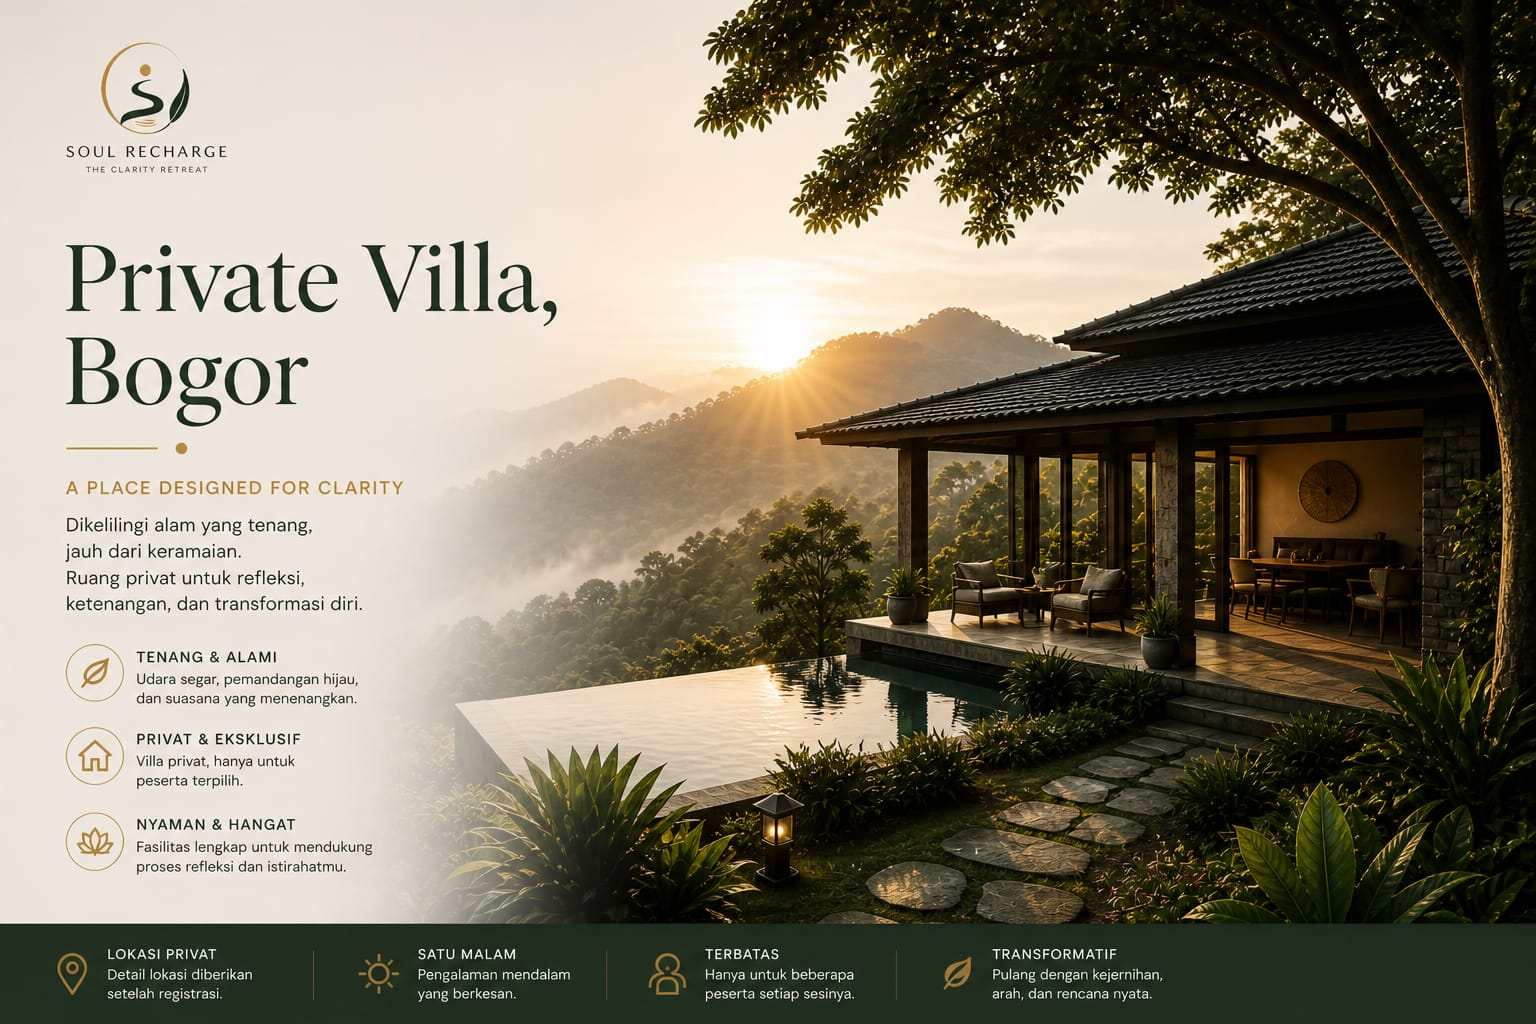
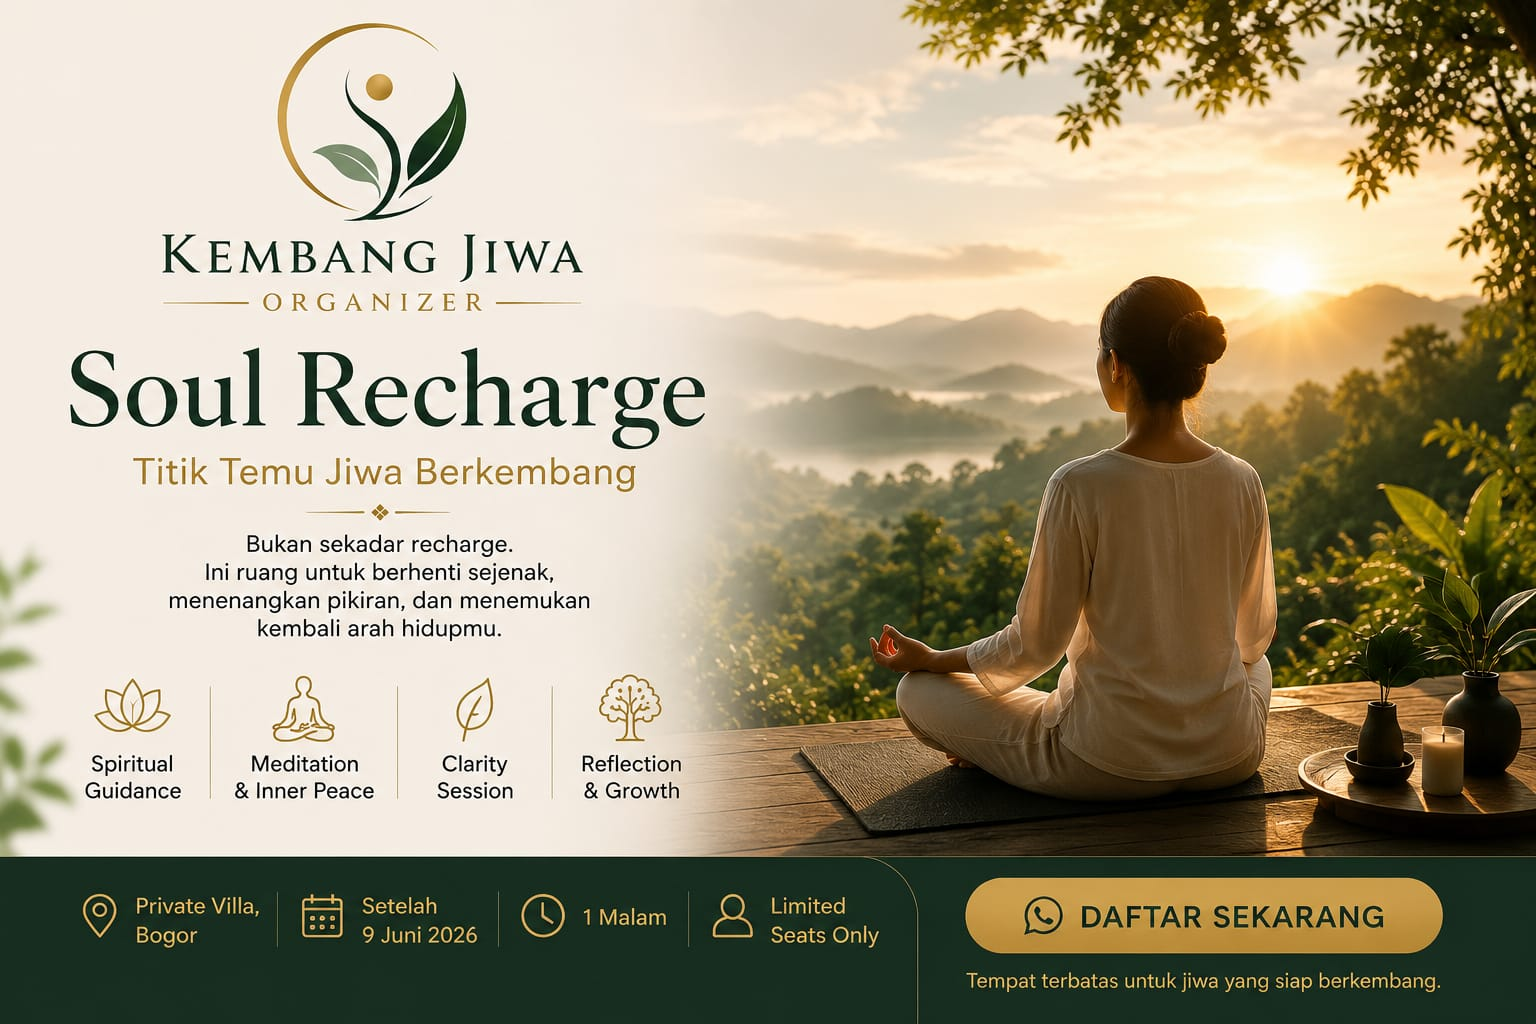
chore: update branding to Kembang Jiwa Organizer

diff --git a/src/components/Footer.tsx b/src/components/Footer.tsx
@@ -15,11 +15,11 @@ export function Footer() {
           <div className="max-w-xs">
             <div className="flex items-center gap-3 mb-4">
               {/* eslint-disable-next-line @next/next/no-img-element */}
-              <img src="/logo.jpeg" alt="Soul Recharge Logo" className="w-10 h-10 rounded-full object-cover" />
-              <h3 className="serif text-4xl font-bold italic">Soul Recharge</h3>
+              <img src="/logo.jpeg" alt="Kembang Jiwa Organizer Logo" className="w-10 h-10 rounded-full object-cover" />
+              <h3 className="serif text-4xl font-bold italic">Kembang Jiwa Organizer</h3>
             </div>
             <p className="text-[10px] opacity-40 uppercase tracking-[0.3em] mb-8 font-bold">
-              The Clarity Retreat Experience
+              Titik Temu Jiwa Berkembang
             </p>
             <p className="text-sm opacity-60 leading-relaxed">
               Sebuah perjalanan spiritual yang dirancang khusus untuk memulihkan kejernihan pikiran dan kesadaran diri.
@@ -47,7 +47,7 @@ export function Footer() {
         </div>
 
         <div className="pt-8 border-t border-background/10 flex flex-col md:flex-row justify-between gap-4 text-[10px] font-bold uppercase tracking-[0.2em] opacity-30">
-          <div>&copy; 2024 Soul Recharge. All Rights Reserved.</div>
+          <div>&copy; 2024 Kembang Jiwa Organizer. All Rights Reserved.</div>
           <div className="flex gap-6">
             <span>Bogor, Indonesia</span>
             <span>Est. 2024</span>

diff --git a/src/components/ContactModal.tsx b/src/components/ContactModal.tsx
@@ -34,7 +34,7 @@ export function ContactModal({ isOpen, onClose }: ContactModalProps) {
           
           <div className="flex flex-col gap-4">
             <a 
-              href="https://wa.me/6282111594146?text=Halo%20Tim%20Soul%20Recharge%2C%20saya%20tertarik%20untuk%20mengetahui%20lebih%20lanjut%20mengenai%20Clarity%20Retreat." 
+              href="https://wa.me/6282111594146?text=Halo%20Tim%20Kembang%20Jiwa%20Organizer%2C%20saya%20tertarik%20untuk%20mengetahui%20lebih%20lanjut%20mengenai%20Titik%20Temu%20Jiwa%20Berkembang." 
               target="_blank" 
               className="flex items-center justify-center gap-3 bg-[#25D366] text-white py-4 font-bold uppercase text-[10px] tracking-[0.2em] rounded-sm hover:brightness-110 transition-all shadow-md"
             >
@@ -43,7 +43,7 @@ export function ContactModal({ isOpen, onClose }: ContactModalProps) {
             </a>
             
             <a 
-              href="mailto:[email redacted]?subject=Tanya%20Mengenai%20Soul%20Recharge%20Retreat"
+              href="mailto:[email redacted]?subject=Tanya%20Mengenai%20Kembang%20Jiwa%20Organizer"
               className="flex items-center justify-center gap-3 border border-primary/20 text-primary py-4 font-bold uppercase text-[10px] tracking-[0.2em] rounded-sm hover:bg-primary/5 transition-all"
             >
               <Mail className="w-4 h-4" />
@@ -61,7 +61,7 @@ export function ContactModal({ isOpen, onClose }: ContactModalProps) {
           </div>
 
           <p className="text-[9px] mt-12 opacity-30 uppercase tracking-[0.3em]">
-            Soul Recharge &mdash; Bogor, Indonesia
+            Kembang Jiwa Organizer &mdash; Bogor, Indonesia
           </p>
         </div>
       </div>

diff --git a/src/components/Navbar.tsx b/src/components/Navbar.tsx
@@ -33,8 +33,8 @@ export function Navbar() {
           className="flex items-center gap-3 cursor-pointer group" 
         >
           {/* eslint-disable-next-line @next/next/no-img-element */}
-          <img src="/logo.jpeg" alt="Soul Recharge Logo" className="w-8 h-8 md:w-10 md:h-10 rounded-full object-cover group-hover:scale-105 transition-transform" />
-          <span className="serif text-xl md:text-2xl font-bold tracking-tighter">SOUL RECHARGE</span>
+          <img src="/logo.jpeg" alt="Kembang Jiwa Organizer Logo" className="w-8 h-8 md:w-10 md:h-10 rounded-full object-cover group-hover:scale-105 transition-transform" />
+          <span className="serif text-xl md:text-2xl font-bold tracking-tighter">KEMBANG JIWA ORGANIZER</span>
         </Link>
 
         <div className="hidden md:flex items-center gap-10 text-[10px] uppercase tracking-[0.2em] font-bold">

diff --git a/src/components/SolutionSection.tsx b/src/components/SolutionSection.tsx
@@ -11,7 +11,7 @@ export function SolutionSection() {
         <div className="md:w-1/2 relative">
           <div className="relative z-10 rounded-sm overflow-hidden shadow-2xl">
             <Image 
-              src={villaImage?.imageUrl || "/villa.jpeg"} 
+              src={villaImage?.imageUrl || "/vila.jpeg"} 
               alt="Private Villa Bogor" 
               width={1000}
               height={1000}
@@ -27,7 +27,7 @@ export function SolutionSection() {
           <span className="text-gold uppercase tracking-[0.3em] text-[10px] font-bold mb-6">The Solution</span>
           <h2 className="text-4xl md:text-5xl mb-8 italic font-headline">This is Where You Reset</h2>
           <p className="text-lg text-primary/80 mb-10 leading-relaxed">
-            Soul Recharge bukan sekadar liburan. Ini adalah ruang sakral untuk berhenti sejenak, melepas kebisingan, dan kembali menemukan pusat diri Anda.
+            Kembang Jiwa Organizer bukan sekadar liburan. Ini adalah ruang sakral untuk berhenti sejenak, melepas kebisingan, dan kembali menemukan pusat diri Anda.
           </p>
           
           <ul className="space-y-6 mb-12">

diff --git a/src/app/gallery/page.tsx b/src/app/gallery/page.tsx
@@ -25,7 +25,7 @@ export default function GalleryPage() {
           <p className="text-gold font-bold tracking-[0.3em] uppercase text-xs mb-6">Visual Journey</p>
           <h1 className="serif text-5xl md:text-7xl font-bold italic mb-8">Moments of Clarity</h1>
           <p className="text-lg opacity-80 max-w-2xl mx-auto leading-relaxed">
-            Sekilas pandang ke dalam pengalaman Soul Recharge. Kumpulan memori dari perjalanan spiritual, pemulihan, dan kebersamaan.
+            Sekilas pandang ke dalam pengalaman Kembang Jiwa Organizer. Kumpulan memori dari perjalanan spiritual, pemulihan, dan kebersamaan.
           </p>
         </div>
 

diff --git a/src/app/layout.tsx b/src/app/layout.tsx
@@ -3,7 +3,7 @@ import './globals.css';
 import { Protection } from '@/components/Protection';
 
 export const metadata: Metadata = {
-  title: 'Soul Recharge | The Clarity Retreat',
+  title: 'Kembang Jiwa Organizer | Titik Temu Jiwa Berkembang',
   description: 'A private retreat experience for professionals & business owners seeking clarity, purpose, and inner alignment.',
 };
 